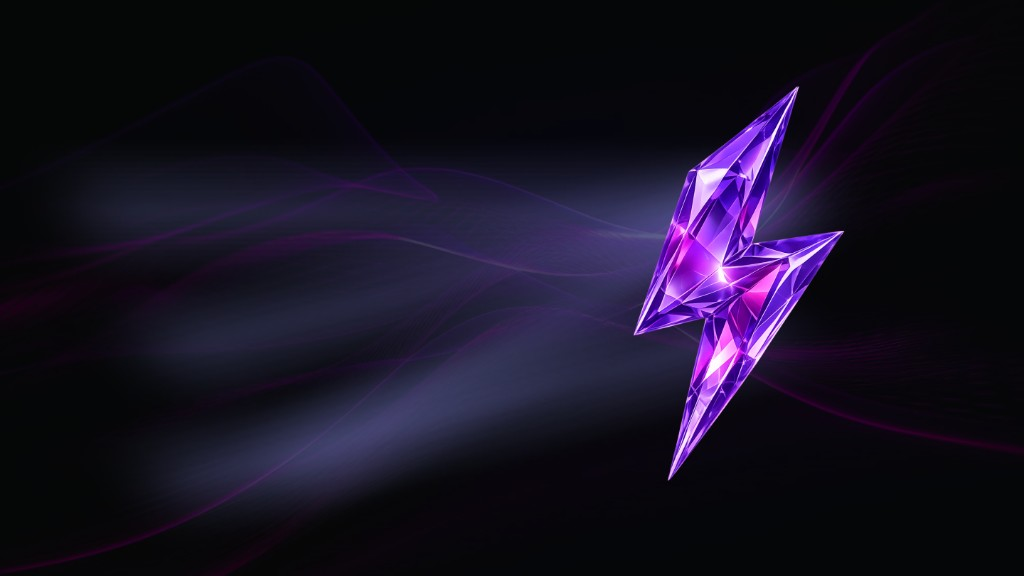
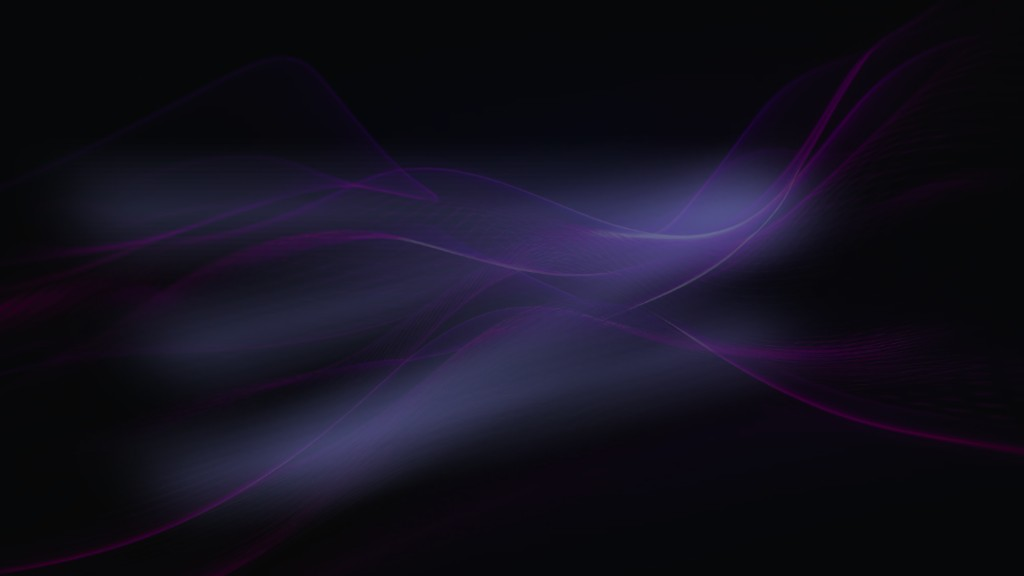
update speed section

Changed region(s): [[0.5938, 0.1562, 0.8438, 0.8125]]

diff --git a/src/components/sections/SpeedSection/SpeedSection.tsx b/src/components/sections/SpeedSection/SpeedSection.tsx
@@ -1,6 +1,7 @@
 import { motion } from 'framer-motion'
 import { cn } from '@/lib/utils'
 import speedBg from '@/assets/speed/speed-bg.png'
+import speedLightning from '@/assets/speed/speed-lightning.png'
 import {
     DeployableIcon,
     EvolvedIcon,
@@ -75,10 +76,11 @@ export function SpeedSection({ className }: SpeedSectionProps) {
                 alt=""
                 aria-hidden="true"
                 className="pointer-events-none absolute inset-0 h-full w-full object-cover object-center"
+                draggable={false}
             />
 
             <div className="relative mx-auto w-full max-w-(--width-container) px-(--spacing-container-x)">
-                <div className="grid grid-cols-1 items-center lg:grid-cols-2">
+                <div className="grid grid-cols-1 items-stretch gap-10 lg:grid-cols-2 lg:gap-8">
                     <div className="max-w-[640px]">
                         <div className="inline-flex items-center gap-2 rounded-full border border-[#8269CF]/40 bg-[#8269CF]/20 px-4 py-1.5">
                             <div className="h-2 w-2 shrink-0 rounded-full bg-[#C4B5FD]" aria-hidden="true" />
@@ -135,7 +137,15 @@ export function SpeedSection({ className }: SpeedSectionProps) {
                         </motion.ul>
                     </div>
 
-                    <div className="hidden lg:block" aria-hidden="true" />
+                    <div className="relative flex h-full min-h-[280px] items-center justify-center lg:min-h-0 lg:justify-end">
+                        <img
+                            src={speedLightning}
+                            alt=""
+                            aria-hidden="true"
+                            className="h-full w-auto max-w-full object-contain"
+                            draggable={false}
+                        />
+                    </div>
                 </div>
             </div>
         </section>
